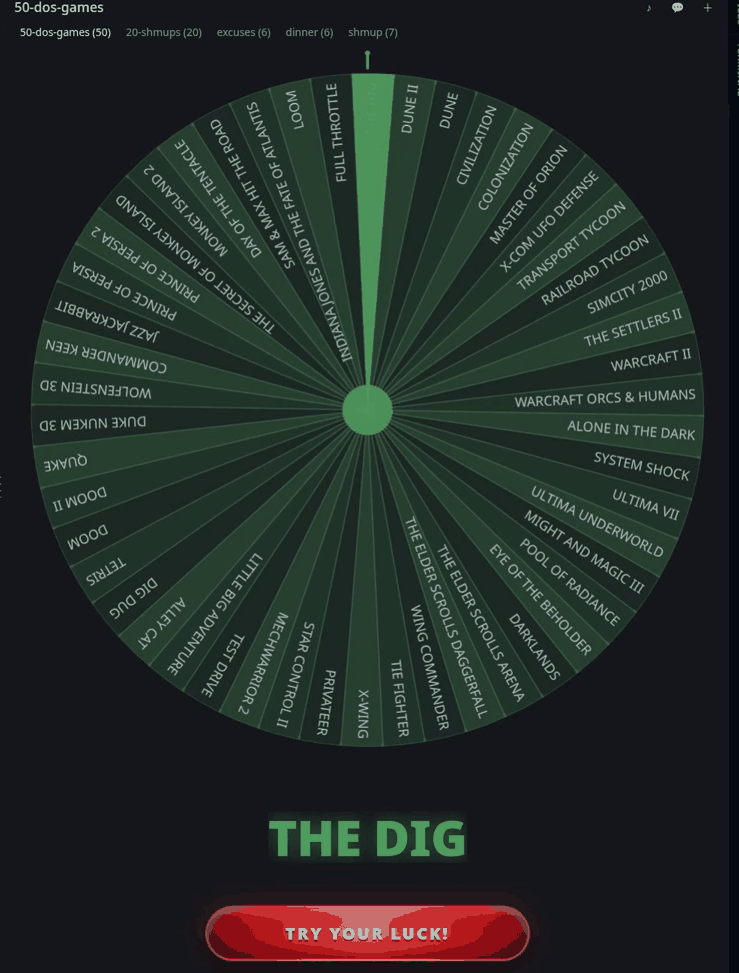
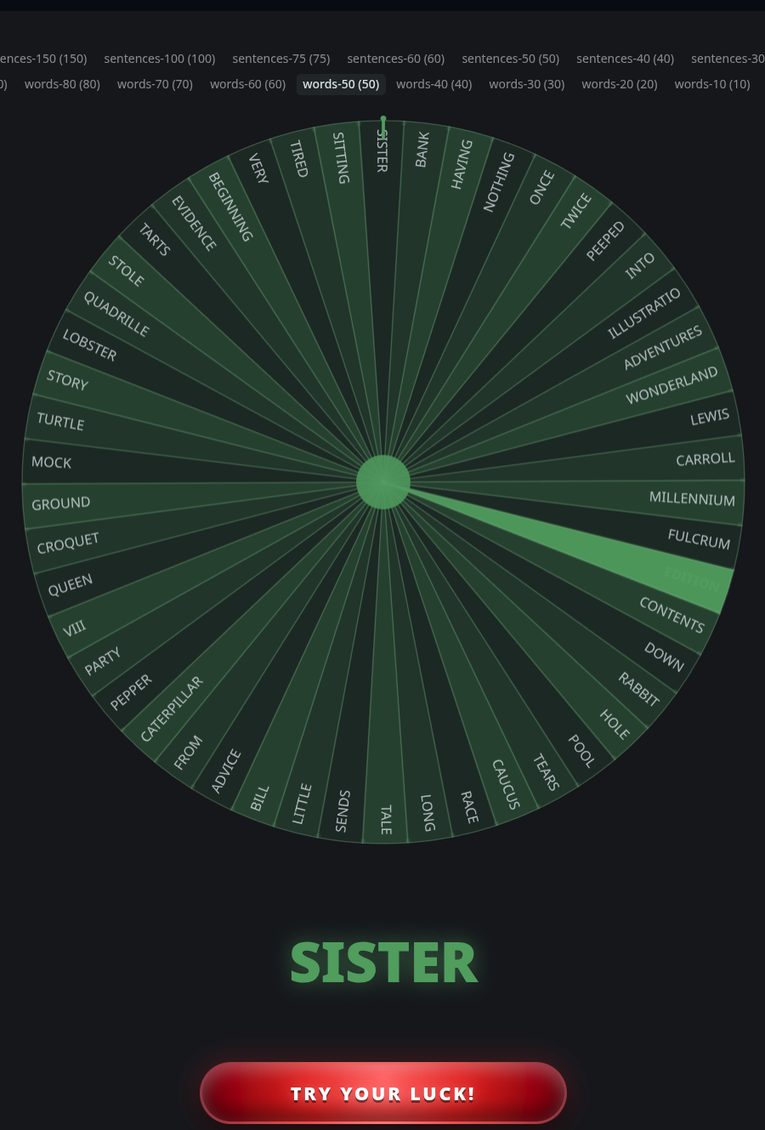
docs: fresh pane screenshot from 1.2.10 — ticker on the rim, result shown — 1.2.10

diff --git a/CHANGELOG.md b/CHANGELOG.md
@@ -1,5 +1,11 @@
 # Changelog
 
+## 1.2.10 — 2026-11-10
+
+- Fresh pane screenshot for the README and the catalog card: the previous still
+  was captured before the ticker fix and showed the flapper floating above a
+  centred wheel.
+
 ## 1.2.9 — 2026-11-10
 
 Docs-only follow-up to the pre-publish pass.

diff --git a/skills/wheelspin/SKILL.md b/skills/wheelspin/SKILL.md
@@ -1,7 +1,7 @@
 ---
 name: wheelspin
 description: "Spin a weighted wheel to decide between options, with a jackpot reveal."
-version: 1.2.9
+version: 1.2.10
 ---
 
 # WheelSpin
